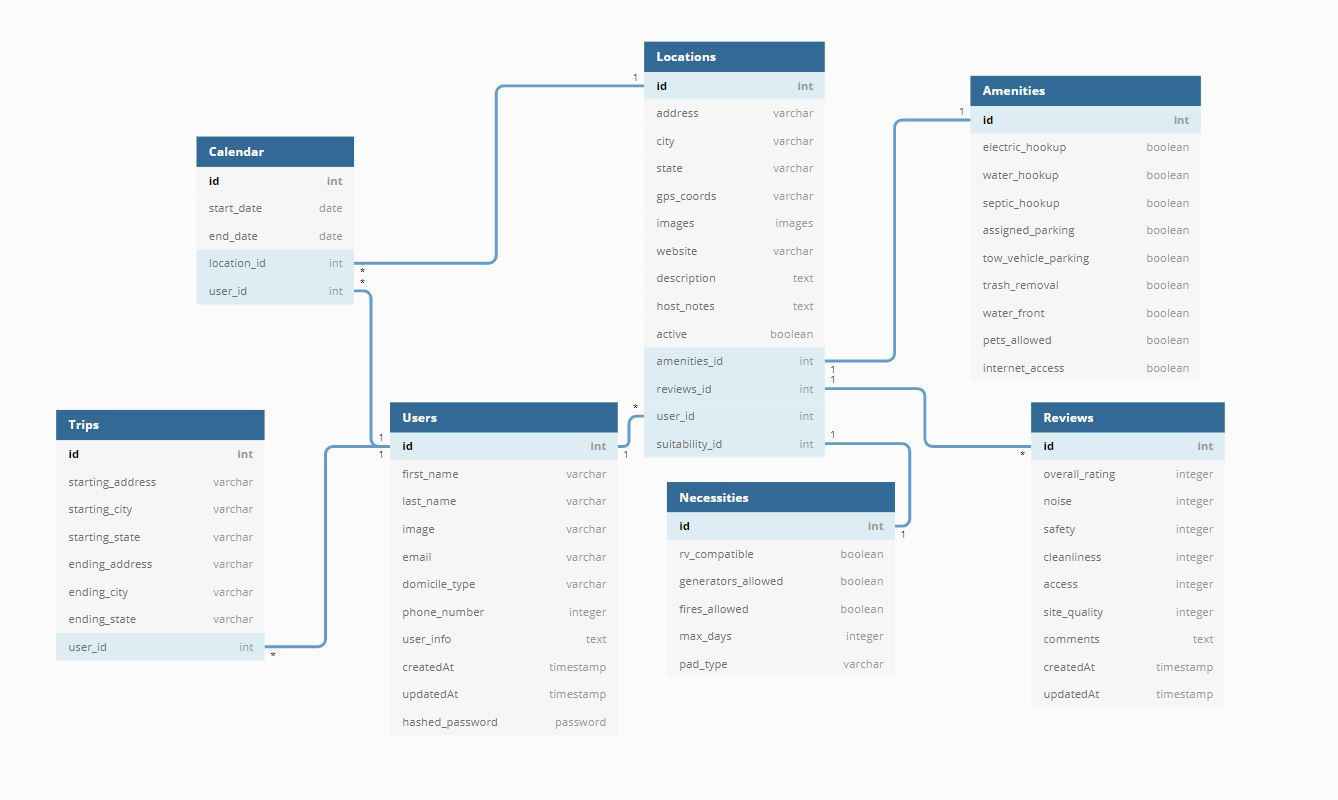
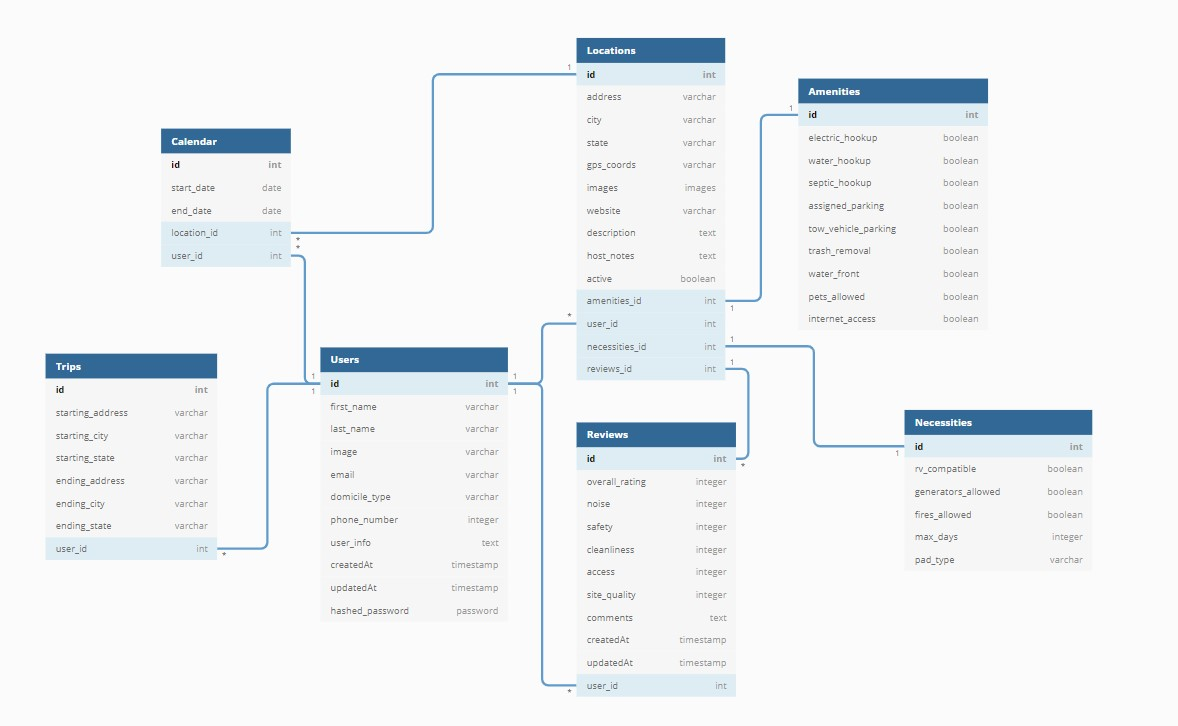
Add Delete Route for location & Update ERD diagram

diff --git a/app/routes/locations.py b/app/routes/locations.py
@@ -79,3 +79,19 @@ def edit_location(location_id):
 
         # commit the above changes to the database
         db.session.commit()
+
+@bp.route("/<int:location_id", methods=['DELETE'])
+# Delete a location and it's dependent Amenities and Necessities rows.
+def delete_location_by_id(location_id):
+    if request.id == location_id:
+        # obtain the 3 rows of data in these 3 rel. tables (location, amenities, and necessities)
+        location_to_del = Location.query.filter_by(location_id).first()
+        amenities_to_del = Amenities.query.filter_by(location_to_del.amenities_id).first()
+        necessities_to_del = Necessities.query.filter_by(location_to_del.necessities_id).first()
+
+        # look into way to DRY up these 3 lines
+        db.session.delete(necessities_to_del)
+        db.session.delete(amenities_to_del)
+        db.session.delete(location_to_del)
+
+        db.session.commit()
